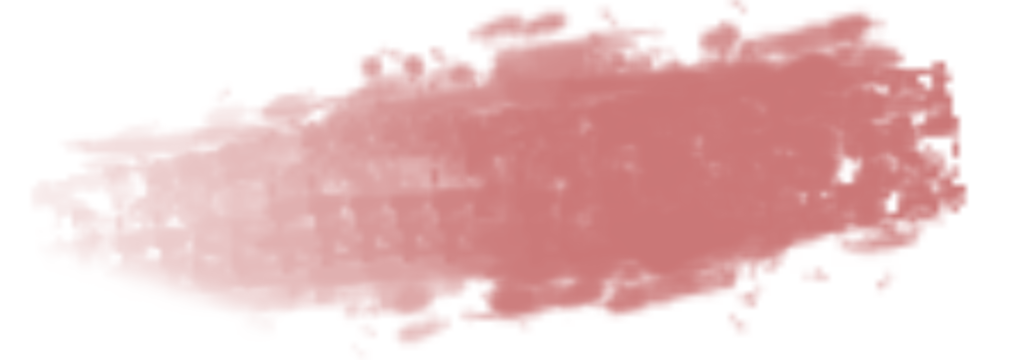
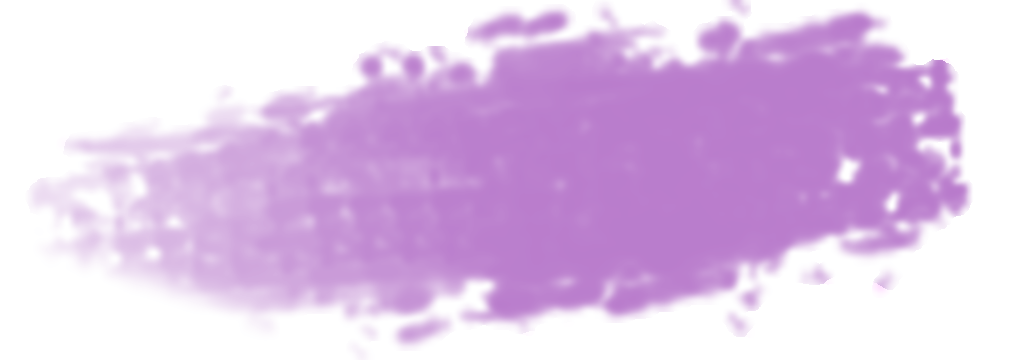
[NT] Mobile optimizations

diff --git a/styles/carousel.css b/styles/carousel.css
@@ -114,6 +114,7 @@
     -o-border-radius: 8px;
     background: -webkit-linear-gradient(-90deg, transparent 0%, transparent 60%, rgba(0,0,0,0.4) 100%);
     box-shadow: 0px 9px 9px -9px rgba(0,0,0,0.7);
+    cursor: all-scroll;
 }
 
 .abilityCarousel .carouselInfo,
@@ -159,6 +160,8 @@
 }
 
 .subtitleText {
+    color:rgb(255, 222, 222);
+    text-shadow: 0px 0px 4px rgb(255, 0, 255);
     font-family: 'Press Start 2P';
 }
 

diff --git a/demilord.js b/demilord.js
@@ -464,7 +464,7 @@
                     let grad =
                         "-webkit-linear-gradient( 0deg, transparent 0%, transparent " +
                         (basePerc - fadeWidth) +
-                        "%, rgb(255, 222, 222) " +
+                        "%, rgb(255, 200, 255) " +
                         basePerc +
                         "%, transparent " +
                         (basePerc + fadeWidth) +
